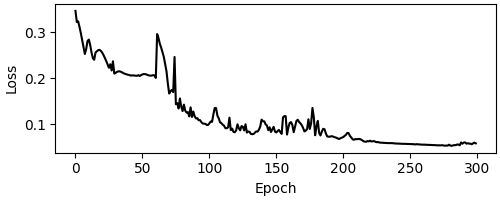
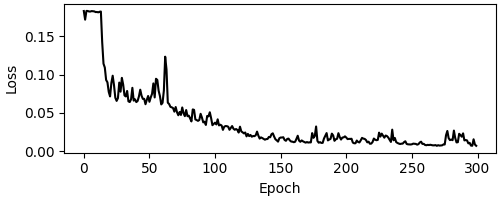
fix difference with task (one-hot output) and model (init+optimizer)

diff --git a/src/figures/2_figure2b.py b/src/figures/2_figure2b.py
@@ -1,10 +1,12 @@
-import os
+import os, sys
 import argparse
 import torch
 import numpy as np
 import matplotlib.pyplot as plt
 from sklearn.decomposition import PCA
+from matplotlib.collections import PolyCollection
 from mpl_toolkits.mplot3d import Axes3D
+from mpl_toolkits.mplot3d.art3d import Poly3DCollection
 from src.task.retrocue_wm import RetrocueWMTask
 
 def main(args):
@@ -31,34 +33,52 @@ def main(args):
     # -------------------------------
 
     dataset = RetrocueWMTask(path=f'{os.environ.get("DATA_PATH")}/dataset/experiment1.pt')
-    activity = torch.load(f'{activity_path}/epoch{epoch:03d}.npy', weights_only=True).detach().numpy()
-    #print(activity.transpose(0, -1).shape)
-    X = activity.reshape((-1, activity.shape[-1]))
-    pca = PCA(n_components=3)
-    C = pca.fit_transform(X).reshape(activity.shape[:-1]+(3,))
-    
+    activity = torch.load(f'{activity_path}/epoch{epoch:03d}.npy', weights_only=True)
 
-    stimulus_cued = dataset.param['stimulus'][torch.arange(C.shape[0]), dataset.param['location']]
     cued = dataset.param['location']
+    stimulus_cued = dataset.param['stimulus'][torch.arange(activity.shape[0]), cued]
+    angle_cued = torch.linspace(-torch.pi, torch.pi, dataset.n_color)[stimulus_cued]
+    angle_anchor = torch.linspace(-torch.pi, torch.pi, 5)[1:]
+    anchor_cued = torch.argmin(torch.abs(angle_cued[:,None] - angle_anchor[None,:]), dim=-1)
+
+    X = torch.zeros((dataset.n_location,)+angle_anchor.shape+activity.shape[1:])
+    for location in range(dataset.n_location):
+        for i,angle in enumerate(angle_anchor):
+            X[location,i] = torch.mean(activity[(cued == location) & (anchor_cued == i)], dim=0)
+    X = X.movedim(2,0).detach().numpy()
+
+    pca3d = PCA(n_components=3)
+    C = np.zeros(X.shape[:-1]+(3,))
+    for i in range(X.shape[0]):
+        C[i] = pca3d.fit_transform(X[i].reshape((-1, X.shape[-1]))).reshape(X.shape[1:-1]+(3,))
+    
+    C_location = np.zeros((C.shape[:-1]+(2,)))
+    pca2d = []
+    for i in range(X.shape[0]):
+        pca2d.append([])
+        for location in range(dataset.n_location):
+            pca2d[i].append(PCA(n_components=2))
+            C_location[i,location] = pca2d[i][location].fit_transform(C[i,location].reshape((-1, C.shape[-1]))).reshape(C.shape[2:-1]+(2,))
 
     # -------------------------------
     # Display
     # -------------------------------
 
-    i = [0, 7, 8, -1]
-    f = plt.figure(figsize=(len(i)*3,2*3), layout='constrained')
+    i = [7, -1]
+    f = plt.figure(figsize=(len(i)*5,4), layout='constrained')
     for j in range(len(i)):
-        ax = f.add_subplot(2,len(i),j+1, projection='3d')
-        ax.scatter(C[:,i[j],0], C[:,i[j],1], C[:,i[j],2], c = cued, cmap='viridis')
-        ax.set_xlabel('PC1 ({pca.explained_variance_ratio_[0]:.2f}%)')
-        ax.set_ylabel('PC2 ({pca.explained_variance_ratio_[1]:.2f}%)')
-        ax.set_zlabel('PC3 ({pca.explained_variance_ratio_[2]:.2f}%)')
-        ax = f.add_subplot(2,len(i),j+1+len(i), projection='3d')
-        ax.scatter(C[:,i[j],0], C[:,i[j],1], C[:,i[j],2], c = stimulus_cued, cmap='viridis')
-        ax.set_xlabel('PC1 ({pca.explained_variance_ratio_[0]:.2f}%)')
-        ax.set_ylabel('PC2 ({pca.explained_variance_ratio_[1]:.2f}%)')
-        ax.set_zlabel('PC3 ({pca.explained_variance_ratio_[2]:.2f}%)')
-    #plt.show()
+        ax = f.add_subplot(1,len(i),j+1, projection='3d')
+        for location, marker in zip(range(dataset.n_location), ['o', '^']):
+            ax.scatter(C[i[j],location,:,0], C[i[j],location,:,1], C[i[j],location,:,2], c = angle_anchor, cmap='viridis', alpha = 1.0, marker = marker)
+            rx,ry = np.max(np.abs(C_location[i[j],location,:,0])), np.max(np.abs(C_location[i[j],location,:,1]))
+            corners_2d = np.array([[-rx, -ry],[ rx, -ry],[ rx,  ry],[-rx,  ry]])
+            corners_3d = pca2d[i[j]][location].inverse_transform(corners_2d)
+            ax.add_collection3d(Poly3DCollection([corners_3d], facecolors=f'0.8', alpha=0.5, edgecolors='none'))
+        ax.set_xlabel(f'PC1 ({pca3d.explained_variance_ratio_[0]:.2f}%)')
+        ax.set_ylabel(f'PC2 ({pca3d.explained_variance_ratio_[1]:.2f}%)')
+        ax.set_zlabel(f'PC3 ({pca3d.explained_variance_ratio_[2]:.2f}%)')
+    if args.show:
+        plt.show()
     plt.savefig(figure_path)
 
 if __name__ == '__main__':
@@ -66,6 +86,7 @@ if __name__ == '__main__':
     parser.add_argument('--seed', metavar = 'S', type = int, default = 0, help = 'Seed')
     parser.add_argument('--epoch', metavar = 'E', type = int, default = 299, help = 'Epoch')
     parser.add_argument('--variant', metavar = 'V', type = str, default = '', help = 'Model variant')
+    parser.add_argument('--show', action = 'store_true', help = 'Show figure')
     args = parser.parse_args()
     main(args)
 

diff --git a/src/task/retrocue_wm.py b/src/task/retrocue_wm.py
@@ -3,12 +3,14 @@ import torch
 from torch.utils.data import Dataset
 import os
 
-def bump_representation(angle, n_color, kappa = torch.tensor(5.0)):
+def bump_representation(k, n_color, kappa = torch.tensor(5.0)):
     phi = torch.linspace(-torch.pi, torch.pi, (n_color+1))[1:]
+    angle = phi[k]
     return torch.exp(kappa * torch.cos(angle - phi))/(2*torch.pi * torch.special.i0(kappa))
 
 class RetrocueWMTask(Dataset):
     def __init__(self, path, n_color = 17, n_location = 2, fixation = 0, stimulus = 1, pre_delay = 7, cue = 1, post_delay = 7, redo = False):
+        self.n_color, self.n_location = n_color, n_location
         self.fixation, self.stimulus, self.pre_delay, self.cue, self.post_delay = fixation, stimulus, pre_delay, cue, post_delay
         self.duration = self.fixation + self.stimulus + self.pre_delay + self.cue + self.post_delay
         if os.path.isfile(path) and not redo:
@@ -20,13 +22,10 @@ class RetrocueWMTask(Dataset):
 
     def gen_param(self, n_color, n_location):
         param = {}
-        angles = torch.linspace(-torch.pi, torch.pi, (n_color + 1))[1:]
-        index_grid = torch.cartesian_prod(*([torch.arange(n_color)] * n_location))
-        stimulus = angles[index_grid]
+        stimulus = torch.cartesian_prod(*([torch.arange(n_color)] * n_location))
         locations = torch.arange(n_location)
-        stimulus = stimulus.repeat_interleave(n_location, dim=0)
-        param['stimulus'] = stimulus
-        param['location'] = locations.repeat(index_grid.size(0))
+        param['stimulus'] = stimulus.repeat_interleave(n_location, dim=0)
+        param['location'] = locations.repeat(stimulus.shape[0])
         return param
 
     def generate_data(self, param, n_color, n_location):
@@ -37,7 +36,7 @@ class RetrocueWMTask(Dataset):
             stimulus = [bump_representation(param['stimulus'][i,k], n_color) for k in range(n_location)]
             x[i, self.fixation:self.fixation+self.stimulus, n_location:] = torch.cat(stimulus, dim=0)
             x[i, self.fixation+self.stimulus+self.pre_delay:self.fixation+self.stimulus+self.pre_delay+self.cue, param['location'][i]] = 1.0
-            y[i] = stimulus[param['location'][i]]  
+            y[i, param['stimulus'][i][param['location'][i]]] = 1.0
         return x, y
     
     def __len__(self):

diff --git a/src/debug/task.py b/src/debug/task.py
@@ -1,13 +1,31 @@
 
 import os
 
+import torch
 from src.task.retrocue_wm import RetrocueWMTask
 
+import matplotlib.pyplot as plt
+
 if __name__ == "__main__":
-    dataset = RetrocueWMTask(path=f'{os.environ.get("DATA_PATH")}/debug/retrocue_wm.pt')
+    dataset = RetrocueWMTask(path=f'{os.environ.get("DATA_PATH")}/debug/retrocue_wm.pt', redo = True)
     
     print(dataset.duration)
     print(dataset.param['stimulus'].shape)
     print(dataset.param['location'].shape)
     print(dataset.x.shape)
     print(dataset.y.shape)
+
+    i = 101
+    x = dataset.x[i]
+    y = torch.full(x.shape[:1]+dataset.y.shape[-1:], float('nan'))
+    y[-1] = dataset.y[i]
+    data = torch.cat([x, y], dim=1)
+
+    f = plt.figure(figsize=(5,5), layout='constrained')
+    ax = f.add_subplot(1,1,1)
+    sm = ax.imshow(data.T)
+    f.colorbar(sm, cax = ax.inset_axes([1.05, 0, 0.05, 1]))
+    ax.set_yticks([-0.5, dataset.n_location-0.5, dataset.n_location+dataset.n_color-0.5, dataset.n_location+dataset.n_color*2-0.5])
+    ax.set_yticklabels(['', '', '', ''])
+    ax.set_xlabel('Time')
+    plt.show()

diff --git a/src/model/rnn.py b/src/model/rnn.py
@@ -9,7 +9,16 @@ class RNN(nn.Module):
         self.w = nn.Linear(hidden_size, hidden_size, bias=True)
         self.w_out = nn.Linear(hidden_size, output_size, bias=True)
         self.f = nn.ReLU()
+        self.f_out = nn.Softmax(dim=-1)
         self.return_hidden = return_hidden
+        self.reset_parameters()
+
+    def reset_parameters(self):
+        nn.init.orthogonal_(self.w.weight)
+        nn.init.xavier_uniform_(self.w_in.weight)
+        nn.init.xavier_uniform_(self.w.weight)
+        nn.init.zeros_(self.w.bias)
+        nn.init.zeros_(self.w_out.bias)
 
     def forward(self, x, h0=None):
         batch, time, _ = x.shape
@@ -22,4 +31,4 @@ class RNN(nn.Module):
             h = self.f(self.w_in(x[:, t]) + self.w(h) + noise)
             if self.return_hidden:
                 _h.append(h)
-        return (self.w_out(h), torch.stack(_h, dim = 1)) if self.return_hidden else self.w_out(h)
+        return (self.f_out(self.w_out(h)), torch.stack(_h, dim = 1)) if self.return_hidden else self.f_out(self.w_out(h))

diff --git a/src/experiment/experiment1/train.py b/src/experiment/experiment1/train.py
@@ -35,14 +35,14 @@ def main(args):
     # -------------------------------
 
     dataset = RetrocueWMTask(path=f'{os.environ.get("DATA_PATH")}/dataset/experiment1.npy')
-    loader = DataLoader(dataset, batch_size = 512, shuffle = True, num_workers = 1, pin_memory = True)
+    loader = DataLoader(dataset, batch_size = 1, shuffle = True, num_workers = 1, pin_memory = True)
 
     # -------------------------------
     # Initializing model
     # -------------------------------
 
-    model = RNN(input_size=dataset.x.shape[-1], hidden_size=200, output_size=dataset.y.shape[-1])
-    model = GenericModel(model, loss = AngularLoss())
+    model = RNN(input_size=dataset.x.shape[-1], hidden_size=200, output_size=dataset.y.shape[-1], sigma = 0.07)
+    model = GenericModel(model, loss = AngularLoss(), optimizer = 'rmsprop', optimizer_params = {'lr': 0.0001})
 
     # -------------------------------
     # Saving model

diff --git a/src/figures/1_figure4a.py b/src/figures/1_figure4a.py
@@ -42,7 +42,6 @@ def main(args):
 if __name__ == '__main__':
     parser = argparse.ArgumentParser(description = 'Plotting Figure 4A')
     parser.add_argument('--seed', metavar = 'S', type = int, default = 0, help = 'Seed')
-    parser.add_argument('--epoch', metavar = 'E', type = int, default = 0, help = 'Epoch')
     parser.add_argument('--variant', metavar = 'V', type = str, default = '', help = 'Model variant')
     args = parser.parse_args()
     main(args)
